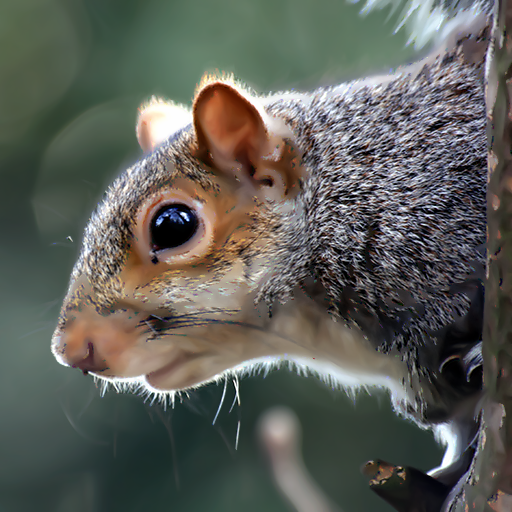
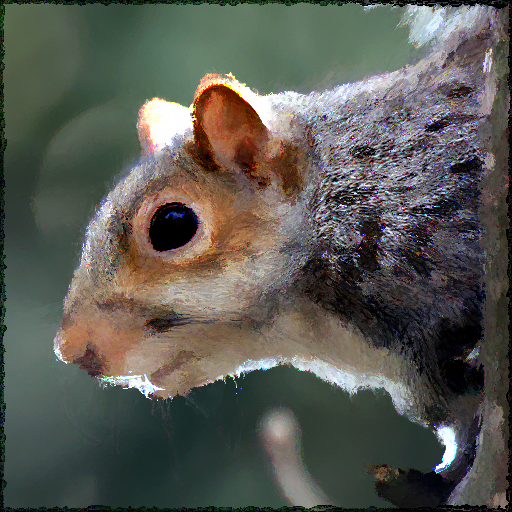
Anisotropic visualizaion : ok AnisotropicKuwahara : not correct

Changed region(s): [[0.0, 0.0, 1.0, 1.0]]

diff --git a/tools_webgl/FilterViewer/ts_scripts/package/pkg_FilterViewHub.ts b/tools_webgl/FilterViewer/ts_scripts/package/pkg_FilterViewHub.ts
@@ -6,7 +6,7 @@
  *  
  * ========================================================================= */
 /// <reference path="../lib/HashSet.ts" />
-/// <reference path="../lib/FilterViewerUi.ts" />
+/// <reference path="../lib/FilterViewerUI.ts" />
 /// <reference path="../../../../lib_webgl/ts_scripts/lib/cv_imread.ts" />
 /// <reference path="../../../../lib_webgl/ts_scripts/lib/cv_colorSpace.ts" />
 /// <reference path="../../../../lib_webgl/ts_scripts/lib/extra_utils.ts" />

diff --git a/tools_webgl/FilterViewer/py_kuwahara/Gaussian.py b/tools_webgl/FilterViewer/py_kuwahara/Gaussian.py
@@ -19,28 +19,32 @@ class Gaussian:
             gaussian_image = np.zeros((height,width))
         else:
             gaussian_image = np.zeros((height,width,channel))
-        for c in range(channel):
-            for j in range(height):
-                for i in range(width):
-                    sum = 0
-                    w = 0
-                    for k in range(-halfKernelSize,halfKernelSize+1):
-                        for q in range(-halfKernelSize,halfKernelSize+1):
-                            iq = i + q
-                            jk = j + k
-                            if iq >= 0 and jk >= 0 and iq<width and jk < height:
-                                r = np.sqrt(i*i+j*j)
-                                ww = np.exp(-r*r/twoSigma2)
-                                w+=ww
-                                if channel == 1:
-                                    sum+=ww*image[jk,iq]
-                                else:
-                                    sum+=ww*image[jk,iq,c]
-                    
-                    if channel == 1:
-                        gaussian_image[j,i]  = sum/w
-                    else:
-                        gaussian_image[j,i,c]  = sum/w
+        for j in range(height):
+            for i in range(width):
+                sumA = [0,0,0]
+                w = 0
+                for k in range(-halfKernelSize,halfKernelSize+1):
+                    for q in range(-halfKernelSize,halfKernelSize+1):
+                        iq = i + q
+                        jk = j + k
+                        if iq >= 0 and jk >= 0 and iq<width and jk < height:
+                            r = np.sqrt(k*k+q*q)
+                            ww = np.exp(-r*r/twoSigma2)
+                            w+=ww
+                            if channel == 1:
+                                sumA[0]+=ww*image[jk,iq]
+                            else:
+                                sumA[0]+=ww*image[jk,iq,0]
+                                sumA[1]+=ww*image[jk,iq,1]
+                                sumA[2]+=ww*image[jk,iq,2]
+                if w == 0:
+                    w = 1
+                if channel == 1:
+                    gaussian_image[j,i]  = sumA[0]/w
+                else:
+                    gaussian_image[j,i,0]  = sumA[0]/w
+                    gaussian_image[j,i,1]  = sumA[1]/w
+                    gaussian_image[j,i,2]  = sumA[2]/w
         return gaussian_image
     
     def sector_calc(self,kernel_size=32,smoothing=0.3333,N=8):

diff --git a/tools_webgl/FilterViewer/py_kuwahara/AnisotropicKuwahara.py b/tools_webgl/FilterViewer/py_kuwahara/AnisotropicKuwahara.py
@@ -24,33 +24,40 @@ class AnisotropicKuwahara:
         self.param_anisotropy()
     
     def param_anisotropy(self):
+        visual_image = cv.imread("./img/visual_rgb.png") 
+        anisotropic_image = np.zeros((self.height,self.width,self.channel))
         A = np.zeros((self.height,self.width))
         PHI = np.zeros((self.height,self.width))
         for j in range(self.height):
             for i in range(self.width):
                 E = self.sst[j,i,0]
-                F = self.sst[j,i,1]
-                G = self.sst[j,i,2]
+                G = self.sst[j,i,1]
+                F = self.sst[j,i,2]
                 D = np.sqrt((E-G)*(E-G)+4.0*F*F)
                 
                 lambda1 = (E + G + D)/2.0
                 lambda2 = (E + G - D)/2.0
                 
-                if lambda1 + lambda2 == 0:
+                if lambda1 + lambda2 <= 0:
                     A[j,i] = 0
                 else:
                     A[j,i] = (lambda1 - lambda2)/(lambda1 + lambda2)
                 
-                if A[j,i] < 0:
-                    A[j,i] = 0
-                elif A[j,i] > 1:
-                    A[j,i] = 1
+                
+                #visualization Anisotropic
+                anisotropic_image[j,i,0] = visual_image[0,int(255*A[j,i]),0]
+                anisotropic_image[j,i,1] = visual_image[0,int(255*A[j,i]),1]
+                anisotropic_image[j,i,2] = visual_image[0,int(255*A[j,i]),2]
+                
                 
                 lengthV = np.sqrt(F*F+( lambda1 - E)**2)
-                    
-                PHI[j,i] = np.arctan2(-F/lengthV, (lambda1 - E)/lengthV)
+                if lengthV > 0:
+                    PHI[j,i] = np.arctan2(-F/lengthV, (lambda1 - E)/lengthV)
+                else:
+                    PHI[j,i] = np.arctan2(1,0)
         self.A = A
         self.PHI = PHI
+        cv.imwrite("./img/anisotropic_image.png",anisotropic_image)    
         
     
     def calc(self,gfilter):
@@ -159,8 +166,9 @@ sst_func = SST.SST(img,SST.SST_TYPE.CLASSIC)
 sst_image = sst_func.cal(9)
 
 gaussian_func = ga.Gaussian()
-gfilter = gaussian_func.sector_calc(13)
+gfilter = gaussian_func.sector_calc(32)
 
 aniso_kuwahara_func = AnisotropicKuwahara(img,sst_image)
 aniso_kuwahara_image = aniso_kuwahara_func.calc(gfilter)
-cv.imwrite("./img/aniso_kuwahara_image.png",aniso_kuwahara_image)                
+cv.imwrite("./img/aniso_kuwahara_image.png",aniso_kuwahara_image)         
+

diff --git a/tools_webgl/FilterViewer/py_kuwahara/SST.py b/tools_webgl/FilterViewer/py_kuwahara/SST.py
@@ -10,6 +10,8 @@ import cv2 as cv
 import numpy as np
 from enum import Enum
 
+import Gaussian
+
 class SST_TYPE(Enum):
     CLASSIC = 1
 
@@ -33,19 +35,15 @@ class SST:
         gray = cv.cvtColor(dimage, cv.COLOR_BGR2GRAY)
         
 
-        sobelx = cv.Sobel(gray, cv.CV_32F, 1, 0, ksize=kernel_size)
-        sobely = cv.Sobel(gray, cv.CV_32F, 0, 1, ksize=kernel_size)
-
-        cv.imwrite("./img/sobelx.png",sobelx)
-        cv.imwrite("./img/sobely.png",sobely)
+        sobelx = cv.Sobel(gray, cv.CV_32F, 1, 0, ksize=3)
+        sobely = cv.Sobel(gray, cv.CV_32F, 0, 1, ksize=3)
 
         tensor_image = np.zeros((height,width,3))
         for j in range(height):
             for i in range(width):
                 fx = sobelx[j,i]
                 fy = sobely[j,i]
-                tensor_image[j,i] = (fx*fx,fx*fy,fy*fy)
-        cv.imwrite("./img/tensor_image.png",tensor_image)
+                tensor_image[j,i] = (fx*fx,fy*fy,fx*fy)
         
         """
         structure_tensor_image = np.zeros((height,width,3))
@@ -77,9 +75,11 @@ class SST:
             tensor_image =  structure_tensor_image
         cv.imwrite("./img/structure_tensor_image.png",structure_tensor_image)
         """     
-        sigma = 2 * self.sigma * self.sigma     
-        smooth_structure_tensor = cv.GaussianBlur(tensor_image,(kernel_size,kernel_size),sigma)
-        cv.imwrite("./img/smooth_structure_tensor.png",smooth_structure_tensor)
+        #sigma = 2 * self.sigma * self.sigma     
+        #smooth_structure_tensor = cv.GaussianBlur(tensor_image,(kernel_size,kernel_size),sigma)
+
+        gaussian_func = Gaussian.Gaussian()
+        smooth_structure_tensor = gaussian_func.calc(tensor_image,2,height,width,channel)
         print("generated smooth structure tensor!")
         self.smooth_structure_tensor = smooth_structure_tensor
         return smooth_structure_tensor
